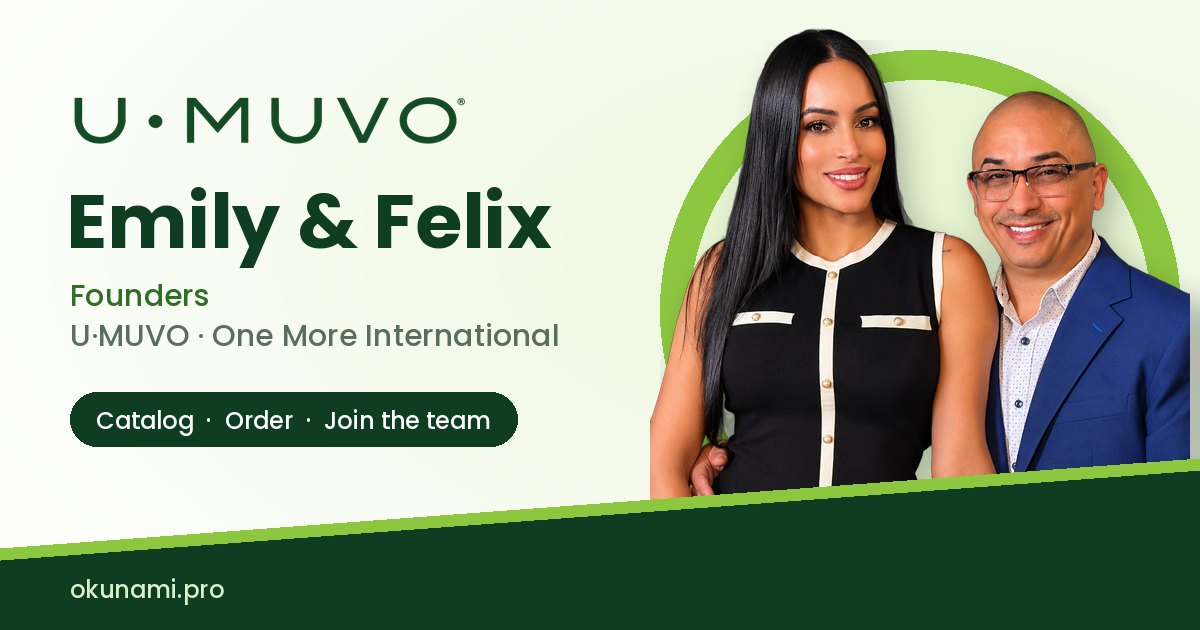
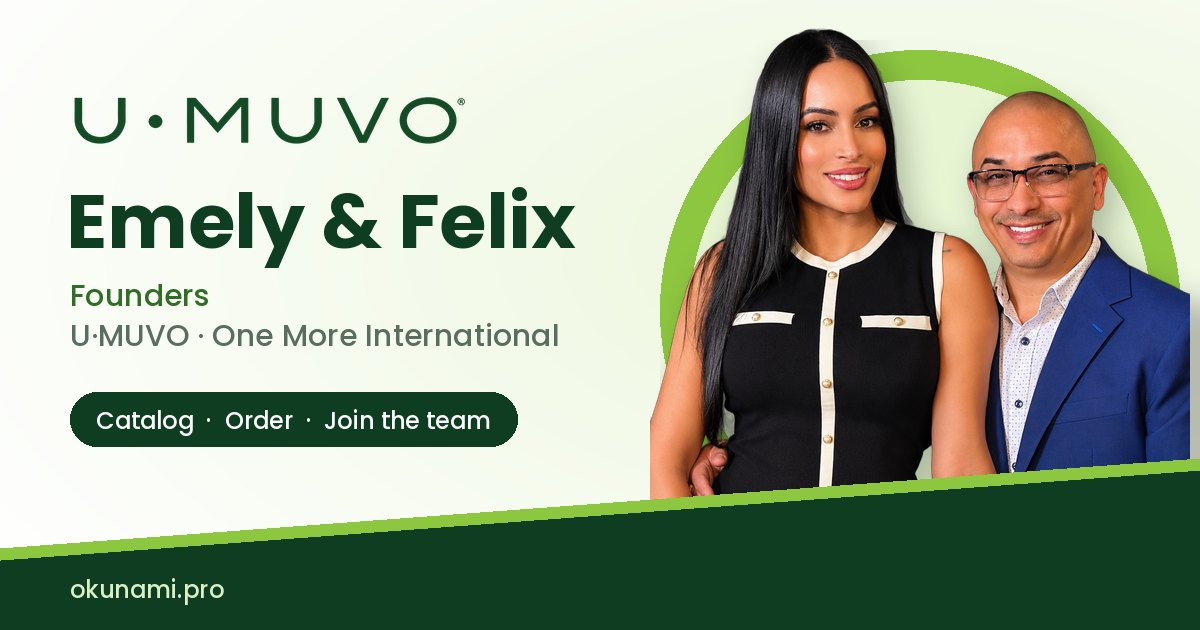
Felix Ortiz vCard: correct spelling to Emely
Claude-Session: https://claude.ai/code/session_01JodS2csGwjireR7rYB1eta

Changed region(s): [[0.1542, 0.3016, 0.4933, 0.4222]]

diff --git a/public/proposals/felix-ortiz/index.html b/public/proposals/felix-ortiz/index.html
@@ -5,9 +5,9 @@
 <base href="/proposals/felix-ortiz/">
 <meta name="viewport" content="width=device-width, initial-scale=1, viewport-fit=cover">
 <meta name="robots" content="noindex, nofollow">
-<title>Emily &amp; Felix vCard | OKUNAMI</title>
-<meta name="description" content="Emily &amp; Felix, Founders. U-MUVO products and team. Prepared by OKUNAMI.">
-<meta property="og:title" content="Emily &amp; Felix | U-MUVO">
+<title>Emely &amp; Felix vCard | OKUNAMI</title>
+<meta name="description" content="Emely &amp; Felix, Founders. U-MUVO products and team. Prepared by OKUNAMI.">
+<meta property="og:title" content="Emely &amp; Felix | U-MUVO">
 <meta property="og:description" content="Products, catalog and team. Save our contact in one step.">
 <meta property="og:type" content="website">
 <meta property="og:site_name" content="OKUNAMI">
@@ -15,7 +15,7 @@
 <meta property="og:image" content="https://okunami.pro/proposals/felix-ortiz/images/og.jpg">
 <meta property="og:image:width" content="1200">
 <meta property="og:image:height" content="630">
-<meta property="og:image:alt" content="Emily and Felix, Founders, U-MUVO">
+<meta property="og:image:alt" content="Emely and Felix, Founders, U-MUVO">
 <meta name="twitter:card" content="summary_large_image">
 <meta name="twitter:image" content="https://okunami.pro/proposals/felix-ortiz/images/og.jpg">
 <link rel="manifest" href="manifest.webmanifest">
@@ -23,7 +23,7 @@
 <link rel="apple-touch-icon" sizes="180x180" href="images/apple-touch-icon.png">
 <meta name="apple-mobile-web-app-capable" content="yes">
 <meta name="mobile-web-app-capable" content="yes">
-<meta name="apple-mobile-web-app-title" content="Emily &amp; Felix">
+<meta name="apple-mobile-web-app-title" content="Emely &amp; Felix">
 <meta name="theme-color" content="#0f3d22">
 <link rel="preconnect" href="https://fonts.googleapis.com">
 <link rel="preconnect" href="https://fonts.gstatic.com" crossorigin>
@@ -31,7 +31,7 @@
 <link rel="stylesheet" href="css/style.css">
 <link rel="stylesheet" href="../_kit/qr-zoom.css">
 </head>
-<body data-qr-name="Emily &amp; Felix">
+<body data-qr-name="Emely &amp; Felix">
 <svg width="0" height="0" style="position:absolute" aria-hidden="true">
   <symbol id="i-phone" viewBox="0 0 24 24"><path fill="none" stroke="currentColor" stroke-width="1.8" stroke-linecap="round" stroke-linejoin="round" d="M5 4h4l2 5-2.5 1.5a11 11 0 0 0 5 5L15 13l5 2v4a2 2 0 0 1-2 2A16 16 0 0 1 3 6a2 2 0 0 1 2-2"/></symbol>
   <symbol id="i-text" viewBox="0 0 24 24"><path fill="none" stroke="currentColor" stroke-width="1.8" stroke-linecap="round" stroke-linejoin="round" d="M4 5h16v11H9l-5 4z"/><path stroke="currentColor" stroke-width="1.8" stroke-linecap="round" d="M8 9.5h8M8 12.5h5"/></symbol>
@@ -72,8 +72,8 @@
 <article class="card l1" id="l1" aria-label="Fresh Leaf" data-lang="en">
   <div class="hero"><button class="lang" type="button" data-lang aria-label="Switch language / Cambiar idioma">ES</button>
     <img class="logo" src="images/logo-green.png" alt="U-MUVO" width="936" height="129">
-    <div class="ring"><span class="disk" aria-hidden="true"></span><img class="cut" src="images/felix-cut.webp" alt="Emily and Felix" width="900" height="750"></div>
-    <div class="id"><h1>Emily &amp; Felix</h1><p class="role"><span data-es="Fundadores">Founders</span><i></i><span class="u">U&middot;MUVO &middot; One More International</span></p></div>
+    <div class="ring"><span class="disk" aria-hidden="true"></span><img class="cut" src="images/felix-cut.webp" alt="Emely and Felix" width="900" height="750"></div>
+    <div class="id"><h1>Emely &amp; Felix</h1><p class="role"><span data-es="Fundadores">Founders</span><i></i><span class="u">U&middot;MUVO &middot; One More International</span></p></div>
   </div>
   <div class="body">
     <div class="actions">
@@ -124,7 +124,7 @@
     </ul>
     <p class="fine"><span data-es="Productos naturales de bienestar. No son medicina. Los resultados var&amp;iacute;an de persona a persona.">Natural wellness products. Not a medicine. Results vary from person to person.</span></p>
 
-    <div class="qr"><img src="images/qr.svg" alt="QR code to share Emily and Felix's card" width="264" height="264"><p><b><span data-es="Comparte nuestra tarjeta.">Share our card.</span></b><br><span data-es="Escanea para guardar nuestro contacto o env&amp;iacute;asela a alguien que quiera sentirse mejor.">Scan to save our contact or send it to someone who wants to feel better.</span></p></div>
+    <div class="qr"><img src="images/qr.svg" alt="QR code to share Emely and Felix's card" width="264" height="264"><p><b><span data-es="Comparte nuestra tarjeta.">Share our card.</span></b><br><span data-es="Escanea para guardar nuestro contacto o env&amp;iacute;asela a alguien que quiera sentirse mejor.">Scan to save our contact or send it to someone who wants to feel better.</span></p></div>
   </div>
   <div class="foot">
     <img class="logo" src="images/logo-green.png" alt="U-MUVO" width="936" height="129" loading="lazy">
@@ -137,8 +137,8 @@
 <article class="card l2" id="l2" aria-label="Forest Band" data-lang="en" hidden>
   <div class="hero"><button class="lang" type="button" data-lang aria-label="Switch language / Cambiar idioma">ES</button>
     <div class="band"><img class="logo" src="images/logo-white.png" alt="U-MUVO" width="936" height="129"><svg class="leafmark" aria-hidden="true"><use href="#i-leaf"/></svg></div>
-    <img class="avatar" src="images/headshot.jpg" alt="Emily and Felix" width="700" height="700">
-    <div class="id"><h1>Emily &amp; Felix</h1><p class="role"><span data-es="Fundadores">Founders</span><i></i><span class="u">U&middot;MUVO &middot; One More International</span></p></div>
+    <img class="avatar" src="images/headshot.jpg" alt="Emely and Felix" width="700" height="700">
+    <div class="id"><h1>Emely &amp; Felix</h1><p class="role"><span data-es="Fundadores">Founders</span><i></i><span class="u">U&middot;MUVO &middot; One More International</span></p></div>
   </div>
   <div class="body">
     <div class="actions">
@@ -189,7 +189,7 @@
     </ul>
     <p class="fine"><span data-es="Productos naturales de bienestar. No son medicina. Los resultados var&amp;iacute;an de persona a persona.">Natural wellness products. Not a medicine. Results vary from person to person.</span></p>
 
-    <div class="qr"><img src="images/qr.svg" alt="QR code to share Emily and Felix's card" width="264" height="264"><p><b><span data-es="Comparte nuestra tarjeta.">Share our card.</span></b><br><span data-es="Escanea para guardar nuestro contacto o env&amp;iacute;asela a alguien que quiera sentirse mejor.">Scan to save our contact or send it to someone who wants to feel better.</span></p></div>
+    <div class="qr"><img src="images/qr.svg" alt="QR code to share Emely and Felix's card" width="264" height="264"><p><b><span data-es="Comparte nuestra tarjeta.">Share our card.</span></b><br><span data-es="Escanea para guardar nuestro contacto o env&amp;iacute;asela a alguien que quiera sentirse mejor.">Scan to save our contact or send it to someone who wants to feel better.</span></p></div>
   </div>
   <div class="foot">
     <img class="logo" src="images/logo-green.png" alt="U-MUVO" width="936" height="129" loading="lazy">
@@ -202,10 +202,10 @@
 <article class="card l3" id="l3" aria-label="The Pack" data-lang="en" hidden>
   <div class="hero"><button class="lang" type="button" data-lang aria-label="Switch language / Cambiar idioma">ES</button>
     <span class="shape a" aria-hidden="true"></span><span class="shape b" aria-hidden="true"></span><span class="shape c" aria-hidden="true"></span>
-    <img class="cut" src="images/felix-cut.webp" alt="Emily and Felix" width="900" height="750">
+    <img class="cut" src="images/felix-cut.webp" alt="Emely and Felix" width="900" height="750">
     <div class="label">
       <p class="tag">#wellness</p>
-      <h1>Emily &amp; Felix</h1>
+      <h1>Emely &amp; Felix</h1>
       <p class="slogan"><span data-es="revitaliza tu vida">revitalize your life</span></p>
       <p class="role"><span data-es="Fundadores">Founders</span><i></i><span class="u">U&middot;MUVO &middot; One More International</span></p>
     </div>
@@ -259,7 +259,7 @@
     </ul>
     <p class="fine"><span data-es="Productos naturales de bienestar. No son medicina. Los resultados var&amp;iacute;an de persona a persona.">Natural wellness products. Not a medicine. Results vary from person to person.</span></p>
 
-    <div class="qr"><img src="images/qr.svg" alt="QR code to share Emily and Felix's card" width="264" height="264"><p><b><span data-es="Comparte nuestra tarjeta.">Share our card.</span></b><br><span data-es="Escanea para guardar nuestro contacto o env&amp;iacute;asela a alguien que quiera sentirse mejor.">Scan to save our contact or send it to someone who wants to feel better.</span></p></div>
+    <div class="qr"><img src="images/qr.svg" alt="QR code to share Emely and Felix's card" width="264" height="264"><p><b><span data-es="Comparte nuestra tarjeta.">Share our card.</span></b><br><span data-es="Escanea para guardar nuestro contacto o env&amp;iacute;asela a alguien que quiera sentirse mejor.">Scan to save our contact or send it to someone who wants to feel better.</span></p></div>
   </div>
   <div class="foot">
     <img class="logo" src="images/logo-green.png" alt="U-MUVO" width="936" height="129" loading="lazy">
@@ -271,8 +271,8 @@
 <!-- LOOK: Editorial -->
 <article class="card l4" id="l4" aria-label="Editorial" data-lang="en" hidden>
   <div class="hero"><button class="lang" type="button" data-lang aria-label="Switch language / Cambiar idioma">ES</button>
-    <img class="photo" src="images/portrait.jpg" alt="Emily and Felix" width="800" height="1000">
-    <div class="over"><img class="logo" src="images/logo-green.png" alt="U-MUVO" width="936" height="129"><h1>Emily &amp; Felix</h1><p class="role"><span data-es="Fundadores">Founders</span><i></i><span class="u">U&middot;MUVO &middot; One More International</span></p></div>
+    <img class="photo" src="images/portrait.jpg" alt="Emely and Felix" width="800" height="1000">
+    <div class="over"><img class="logo" src="images/logo-green.png" alt="U-MUVO" width="936" height="129"><h1>Emely &amp; Felix</h1><p class="role"><span data-es="Fundadores">Founders</span><i></i><span class="u">U&middot;MUVO &middot; One More International</span></p></div>
   </div>
   <div class="body">
     <div class="actions">
@@ -323,7 +323,7 @@
     </ul>
     <p class="fine"><span data-es="Productos naturales de bienestar. No son medicina. Los resultados var&amp;iacute;an de persona a persona.">Natural wellness products. Not a medicine. Results vary from person to person.</span></p>
 
-    <div class="qr"><img src="images/qr.svg" alt="QR code to share Emily and Felix's card" width="264" height="264"><p><b><span data-es="Comparte nuestra tarjeta.">Share our card.</span></b><br><span data-es="Escanea para guardar nuestro contacto o env&amp;iacute;asela a alguien que quiera sentirse mejor.">Scan to save our contact or send it to someone who wants to feel better.</span></p></div>
+    <div class="qr"><img src="images/qr.svg" alt="QR code to share Emely and Felix's card" width="264" height="264"><p><b><span data-es="Comparte nuestra tarjeta.">Share our card.</span></b><br><span data-es="Escanea para guardar nuestro contacto o env&amp;iacute;asela a alguien que quiera sentirse mejor.">Scan to save our contact or send it to someone who wants to feel better.</span></p></div>
   </div>
   <div class="foot">
     <img class="logo" src="images/logo-green.png" alt="U-MUVO" width="936" height="129" loading="lazy">
@@ -336,8 +336,8 @@
 <article class="card l5" id="l5" aria-label="Executive" data-lang="en" hidden>
   <div class="hero"><button class="lang" type="button" data-lang aria-label="Switch language / Cambiar idioma">ES</button>
     <img class="logo" src="images/logo-green.png" alt="U-MUVO" width="936" height="129">
-    <div class="row"><img class="avatar" src="images/headshot.jpg" alt="Emily and Felix" width="700" height="700">
-    <div class="id"><h1>Emily &amp; Felix</h1><p class="role"><span data-es="Fundadores">Founders</span><i></i><span class="u">U&middot;MUVO &middot; One More International</span></p></div></div>
+    <div class="row"><img class="avatar" src="images/headshot.jpg" alt="Emely and Felix" width="700" height="700">
+    <div class="id"><h1>Emely &amp; Felix</h1><p class="role"><span data-es="Fundadores">Founders</span><i></i><span class="u">U&middot;MUVO &middot; One More International</span></p></div></div>
     <span class="rule" aria-hidden="true"></span>
   </div>
   <div class="body">
@@ -389,7 +389,7 @@
     </ul>
     <p class="fine"><span data-es="Productos naturales de bienestar. No son medicina. Los resultados var&amp;iacute;an de persona a persona.">Natural wellness products. Not a medicine. Results vary from person to person.</span></p>
 
-    <div class="qr"><img src="images/qr.svg" alt="QR code to share Emily and Felix's card" width="264" height="264"><p><b><span data-es="Comparte nuestra tarjeta.">Share our card.</span></b><br><span data-es="Escanea para guardar nuestro contacto o env&amp;iacute;asela a alguien que quiera sentirse mejor.">Scan to save our contact or send it to someone who wants to feel better.</span></p></div>
+    <div class="qr"><img src="images/qr.svg" alt="QR code to share Emely and Felix's card" width="264" height="264"><p><b><span data-es="Comparte nuestra tarjeta.">Share our card.</span></b><br><span data-es="Escanea para guardar nuestro contacto o env&amp;iacute;asela a alguien que quiera sentirse mejor.">Scan to save our contact or send it to someone who wants to feel better.</span></p></div>
   </div>
   <div class="foot">
     <img class="logo" src="images/logo-green.png" alt="U-MUVO" width="936" height="129" loading="lazy">
@@ -403,8 +403,8 @@
   <div class="hero"><button class="lang" type="button" data-lang aria-label="Switch language / Cambiar idioma">ES</button>
     <span class="blob b1" aria-hidden="true"></span><span class="blob b2" aria-hidden="true"></span>
     <img class="logo" src="images/logo-green.png" alt="U-MUVO" width="936" height="129">
-    <img class="cut" src="images/felix-cut.webp" alt="Emily and Felix" width="900" height="750">
-    <div class="id glass"><h1>Emily &amp; Felix</h1><p class="role"><span data-es="Fundadores">Founders</span><i></i><span class="u">U&middot;MUVO &middot; One More International</span></p></div>
+    <img class="cut" src="images/felix-cut.webp" alt="Emely and Felix" width="900" height="750">
+    <div class="id glass"><h1>Emely &amp; Felix</h1><p class="role"><span data-es="Fundadores">Founders</span><i></i><span class="u">U&middot;MUVO &middot; One More International</span></p></div>
   </div>
   <div class="body">
     <div class="actions">
@@ -455,7 +455,7 @@
     </ul>
     <p class="fine"><span data-es="Productos naturales de bienestar. No son medicina. Los resultados var&amp;iacute;an de persona a persona.">Natural wellness products. Not a medicine. Results vary from person to person.</span></p>
 
-    <div class="qr"><img src="images/qr.svg" alt="QR code to share Emily and Felix's card" width="264" height="264"><p><b><span data-es="Comparte nuestra tarjeta.">Share our card.</span></b><br><span data-es="Escanea para guardar nuestro contacto o env&amp;iacute;asela a alguien que quiera sentirse mejor.">Scan to save our contact or send it to someone who wants to feel better.</span></p></div>
+    <div class="qr"><img src="images/qr.svg" alt="QR code to share Emely and Felix's card" width="264" height="264"><p><b><span data-es="Comparte nuestra tarjeta.">Share our card.</span></b><br><span data-es="Escanea para guardar nuestro contacto o env&amp;iacute;asela a alguien que quiera sentirse mejor.">Scan to save our contact or send it to someone who wants to feel better.</span></p></div>
   </div>
   <div class="foot">
     <img class="logo" src="images/logo-green.png" alt="U-MUVO" width="936" height="129" loading="lazy">
@@ -469,7 +469,7 @@
 <div class="bk" id="bk" hidden>
   <div class="bk-sheet" role="dialog" aria-modal="true" aria-labelledby="bkTitle">
     <div class="bk-head">
-      <div><p class="bk-kicker" data-i18n="kicker">Emily &amp; Felix &middot; U-MUVO</p><h2 id="bkTitle" data-i18n="title">Book a free consultation</h2></div>
+      <div><p class="bk-kicker" data-i18n="kicker">Emely &amp; Felix &middot; U-MUVO</p><h2 id="bkTitle" data-i18n="title">Book a free consultation</h2></div>
       <button class="bk-x" type="button" data-bk-close aria-label="Close"><svg class="ico"><use href="#i-x"/></svg></button>
     </div>
     <div class="bk-body">
@@ -506,11 +506,11 @@
 
 
 <footer class="fm-foot">
-  <p class="fm-hi">Hi Emily and Felix, look through the designs above and press <b>I want this one</b> on your favorite. Every look works in English and Spanish, and any of them can be adjusted to your taste.</p>
+  <p class="fm-hi">Hi Emely and Felix, look through the designs above and press <b>I want this one</b> on your favorite. Every look works in English and Spanish, and any of them can be adjusted to your taste.</p>
   <p class="fm-co"><b>OKUNAMI</b> &middot; Angel Gerena &middot; Scan. Share. Connect. It&rsquo;s that simple.</p>
   <p class="fm-co"><a href="tel:+14079609004">(407) 960-9004</a> &middot; <a href="https://okunami.pro" target="_blank" rel="noopener">okunami.pro</a></p>
 </footer>
-<script>window.LOOKS = {l1:{name:"Fresh Leaf",note:"Clean white card with Emily and Felix rising out of a lime circle and the U·MUVO wordmark up top. Fresh and friendly."}, l2:{name:"Forest Band",note:"Deep forest-green header with the white logo, round photo with a lime ring. Classic and trustworthy."}, l3:{name:"The Pack",note:"Inspired by the Png #energy package: bold green shapes, white center, a green band below. Looks like the product."}, l4:{name:"Editorial",note:"Full photo on top, fading into white with his name in big letters. Like a magazine cover."}, l5:{name:"Executive",note:"Minimal and corporate: elegant serif name, thin lime lines, lots of white space. Matches the suit."}, l6:{name:"Lime Glass",note:"Soft lime-to-mint background with frosted glass panels and candy-gloss buttons. Modern and bright."}};</script>
+<script>window.LOOKS = {l1:{name:"Fresh Leaf",note:"Clean white card with Emely and Felix rising out of a lime circle and the U·MUVO wordmark up top. Fresh and friendly."}, l2:{name:"Forest Band",note:"Deep forest-green header with the white logo, round photo with a lime ring. Classic and trustworthy."}, l3:{name:"The Pack",note:"Inspired by the Png #energy package: bold green shapes, white center, a green band below. Looks like the product."}, l4:{name:"Editorial",note:"Full photo on top, fading into white with his name in big letters. Like a magazine cover."}, l5:{name:"Executive",note:"Minimal and corporate: elegant serif name, thin lime lines, lots of white space. Matches the suit."}, l6:{name:"Lime Glass",note:"Soft lime-to-mint background with frosted glass panels and candy-gloss buttons. Modern and bright."}};</script>
 <script src="js/main.js"></script>
 <script src="../_kit/qr-zoom.js"></script>
 </body>

diff --git a/public/proposals/felix-ortiz/js/main.js b/public/proposals/felix-ortiz/js/main.js
@@ -26,7 +26,7 @@
   show(start);
 
   // Get your own vCard (to Angel). Stays in English in every language.
-  var own = "Hi Angel, I really like the vCard you made for Emily & Felix, and I would like you to create one for me as well. Please contact me at your earliest convenience. Thank you!";
+  var own = "Hi Angel, I really like the vCard you made for Emely & Felix, and I would like you to create one for me as well. Please contact me at your earliest convenience. Thank you!";
   document.querySelectorAll("[data-own]").forEach(function(a){ a.href = WA + encodeURIComponent(own); });
   document.querySelectorAll("[data-own-sms]").forEach(function(a){ a.href = SMS + encodeURIComponent(own); });
 
@@ -47,8 +47,8 @@
     var b = card.querySelector("[data-lang]");
     if(b) b.textContent = es ? "EN" : "ES";
   }
-  var ORDER_EN = "Hi Emily and Felix, I saw your U-MUVO catalog and I'd like to place an order.";
-  var ORDER_ES = "Hola Emily y Felix, vi su cat\u00e1logo de U-MUVO y me gustar\u00eda hacer un pedido.";
+  var ORDER_EN = "Hi Emely and Felix, I saw your U-MUVO catalog and I'd like to place an order.";
+  var ORDER_ES = "Hola Emely y Felix, vi su cat\u00e1logo de U-MUVO y me gustar\u00eda hacer un pedido.";
   document.querySelectorAll("[data-order]").forEach(function(o){ o.href = FX_WA + encodeURIComponent(ORDER_EN); });
   document.querySelectorAll(".card").forEach(function(card){
     var b = card.querySelector("[data-lang]");
@@ -66,14 +66,14 @@
   // Booking pop-up (messages go to Felix): calendar, AM/PM slots, details
   var bk = document.getElementById("bk"), lastBtn = null, bkEs = false;
   var T = {
-    en:{kicker:"Emily & Felix · U-MUVO", title:"Book a free consultation", s1:"1. Pick the day", s2:"2. Pick the time", s3:"3. What can we help you with?",
+    en:{kicker:"Emely & Felix · U-MUVO", title:"Book a free consultation", s1:"1. Pick the day", s2:"2. Pick the time", s3:"3. What can we help you with?",
       fName:"Your name", fCity:"City", fSize:"Best way to reach you", sms:"Text", close:"Close", prev:"Previous month", next:"Next month",
       months:["January","February","March","April","May","June","July","August","September","October","November","December"],
       dow:["Sun","Mon","Tue","Wed","Thu","Fri","Sat"], days:["Sunday","Monday","Tuesday","Wednesday","Thursday","Friday","Saturday"],
       types:["Product info","Place an order","Join the team","Business presentation","Video call"],
       sizes:["Phone call","Text message","WhatsApp","Email"], pick:"Pick a day and a time to send your request.",
       at:"at", none:"To be confirmed"},
-    es:{kicker:"Emily & Felix · U-MUVO", title:"Agenda una consulta gratis", s1:"1. Elige el día", s2:"2. Elige la hora", s3:"3. ¿En qué te podemos ayudar?",
+    es:{kicker:"Emely & Felix · U-MUVO", title:"Agenda una consulta gratis", s1:"1. Elige el día", s2:"2. Elige la hora", s3:"3. ¿En qué te podemos ayudar?",
       fName:"Tu nombre", fCity:"Ciudad", fSize:"Mejor forma de contactarte", sms:"Texto", close:"Cerrar", prev:"Mes anterior", next:"Mes siguiente",
       months:["enero","febrero","marzo","abril","mayo","junio","julio","agosto","septiembre","octubre","noviembre","diciembre"],
       dow:["Dom","Lun","Mar","Mié","Jue","Vie","Sáb"], days:["domingo","lunes","martes","miércoles","jueves","viernes","sábado"],
@@ -150,9 +150,9 @@
     var sizeEl = document.getElementById("bkSize"), how = sizeEl.selectedIndex > 0 ? sizeEl.value : "";
     var type = sel.type === null ? "" : t.types[sel.type];
     var msg = bkEs
-      ? "Hola Emily y Felix" + (name ? ", soy " + name : "") + ". Me gustaría agendar una consulta gratis de U-MUVO.\nFecha: " + dateText() + "\nHora: " + ampm(sel.hour) +
+      ? "Hola Emely y Felix" + (name ? ", soy " + name : "") + ". Me gustaría agendar una consulta gratis de U-MUVO.\nFecha: " + dateText() + "\nHora: " + ampm(sel.hour) +
         "\nTema: " + (type || t.none) + "\nCiudad: " + (city || t.none) + "\nMejor forma de contactarme: " + (how || t.none)
-      : "Hi Emily and Felix" + (name ? ", this is " + name : "") + ". I'd like to book a free U-MUVO consultation.\nDate: " + dateText() + "\nTime: " + ampm(sel.hour) +
+      : "Hi Emely and Felix" + (name ? ", this is " + name : "") + ". I'd like to book a free U-MUVO consultation.\nDate: " + dateText() + "\nTime: " + ampm(sel.hour) +
         "\nTopic: " + (type || t.none) + "\nCity: " + (city || t.none) + "\nBest way to reach me: " + (how || t.none);
     wa.href = FX_WA + encodeURIComponent(msg); sms.href = FX_SMS + encodeURIComponent(msg);
     wa.removeAttribute("aria-disabled"); sms.removeAttribute("aria-disabled");
@@ -197,7 +197,7 @@
   });
 
   // Save Contact
-  var vcf = ["BEGIN:VCARD","VERSION:3.0","N:;Emily & Felix;;;","FN:Emily & Felix",
+  var vcf = ["BEGIN:VCARD","VERSION:3.0","N:;Emely & Felix;;;","FN:Emely & Felix",
     "ORG:U-MUVO · One More International",
     "TITLE:Founders",
     "TEL;TYPE=CELL,VOICE:+13212038541",
@@ -209,7 +209,7 @@
   document.querySelectorAll("[data-save]").forEach(function(b){
     b.addEventListener("click", function(){
       var url = URL.createObjectURL(new Blob([vcf], {type:"text/vcard;charset=utf-8"}));
-      var a = document.createElement("a"); a.href = url; a.download = "Emily-and-Felix.vcf";
+      var a = document.createElement("a"); a.href = url; a.download = "Emely-and-Felix.vcf";
       document.body.appendChild(a); a.click(); a.remove();
       setTimeout(function(){ URL.revokeObjectURL(url); }, 1500);
     });
